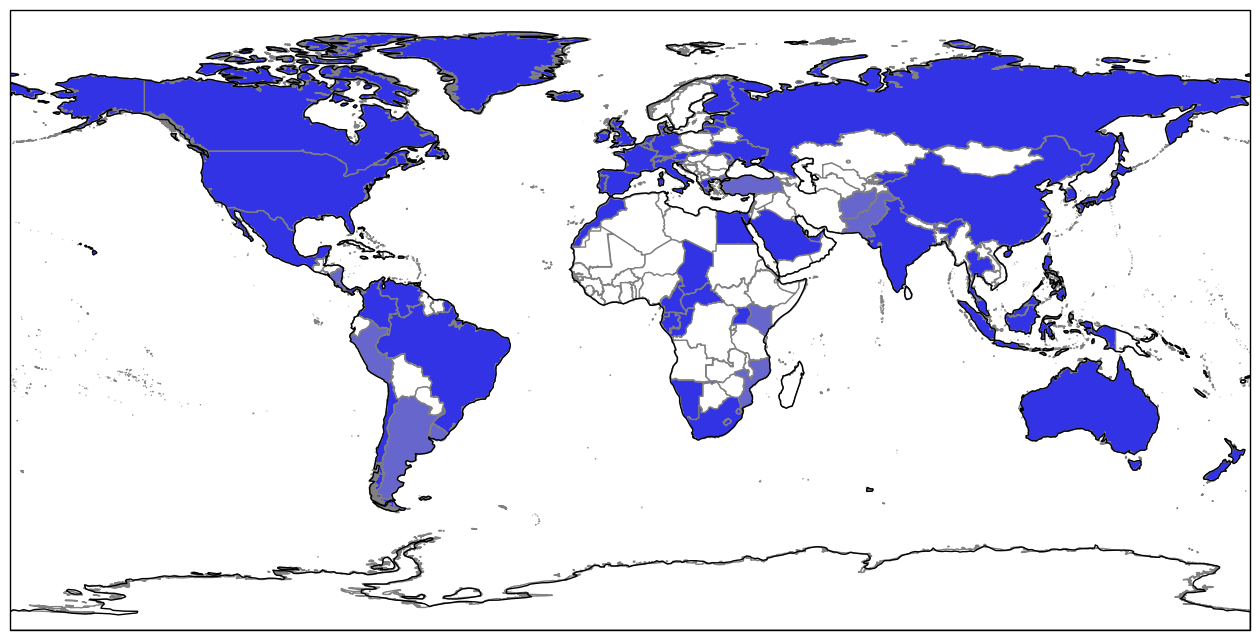
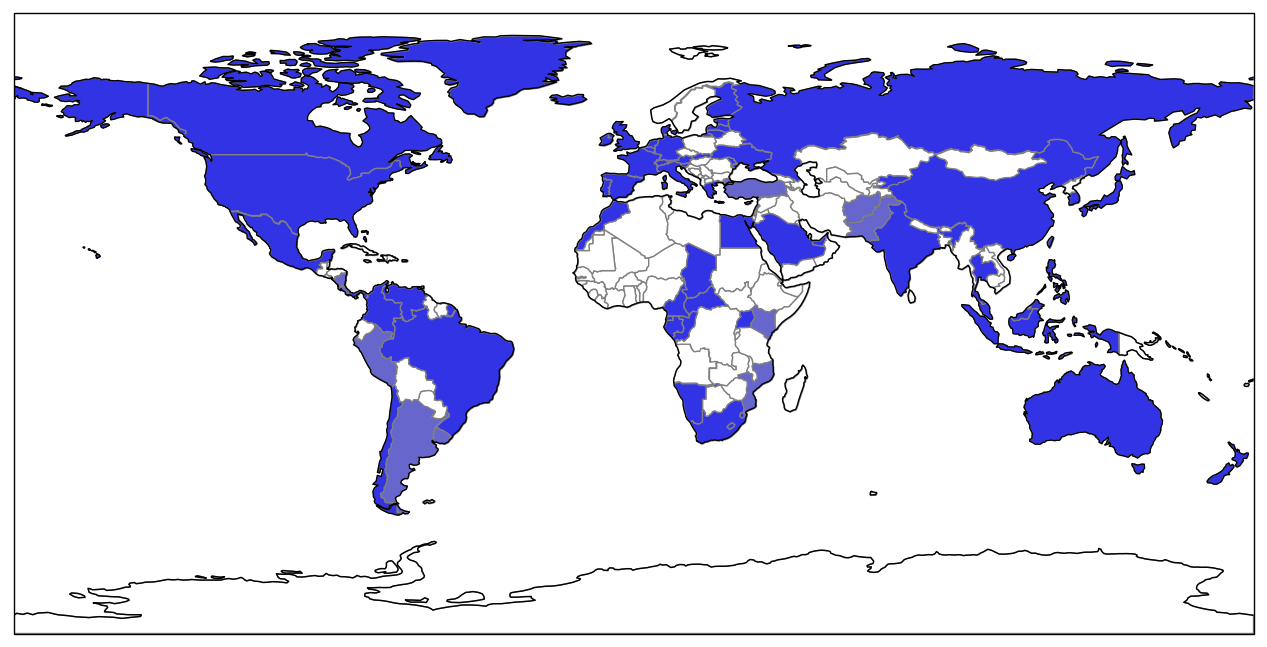
Update to Cartopy==0.16.0.  Regenerate map
A bunch of islands used to obscure the map at low-res.  The new version
no longer shows these.

diff --git a/README.rst b/README.rst
@@ -16,14 +16,17 @@ Requirements
 
 Most of the scripts have no requirements other than Python, but generating the world map requires a bunch of libraries to be installed:
 
-* Use ``sudo apt-get install python-dev libproj-dev libgeos-dev libblas-dev gfortran libpng-dev libfreetype6-dv``
+* Use ``sudo apt-get install python-tk``
 
-* Use ``sudo pip install Cython numpy scipy matplotlib shapely==1.5.12 enum34``
+.. I think I used to have cartopy or shapely or something compiling from source.
+   An older version of this section said that these packages were required, but none of them seem to be required anymore:
+   python-dev libproj-dev libgeos-dev libblas-dev gfortran libpng-dev libfreetype6-dev 
 
-* Use ``sudo pip install Cartopy``
+.. NOTE(jfriedly):  I grew up and started using a virtualenv for this:  ``workon foreign-currency``
 
-Note:  Cartopy has `a known issue`_ that makes map drawing fail with Shapely 1.5.13.
-For now, the recommendation is to just use 1.5.12.
+* Use ``pip install Cython numpy scipy matplotlib enum34``
+
+* Use ``pip install Cartopy``
 
 
 TODO
